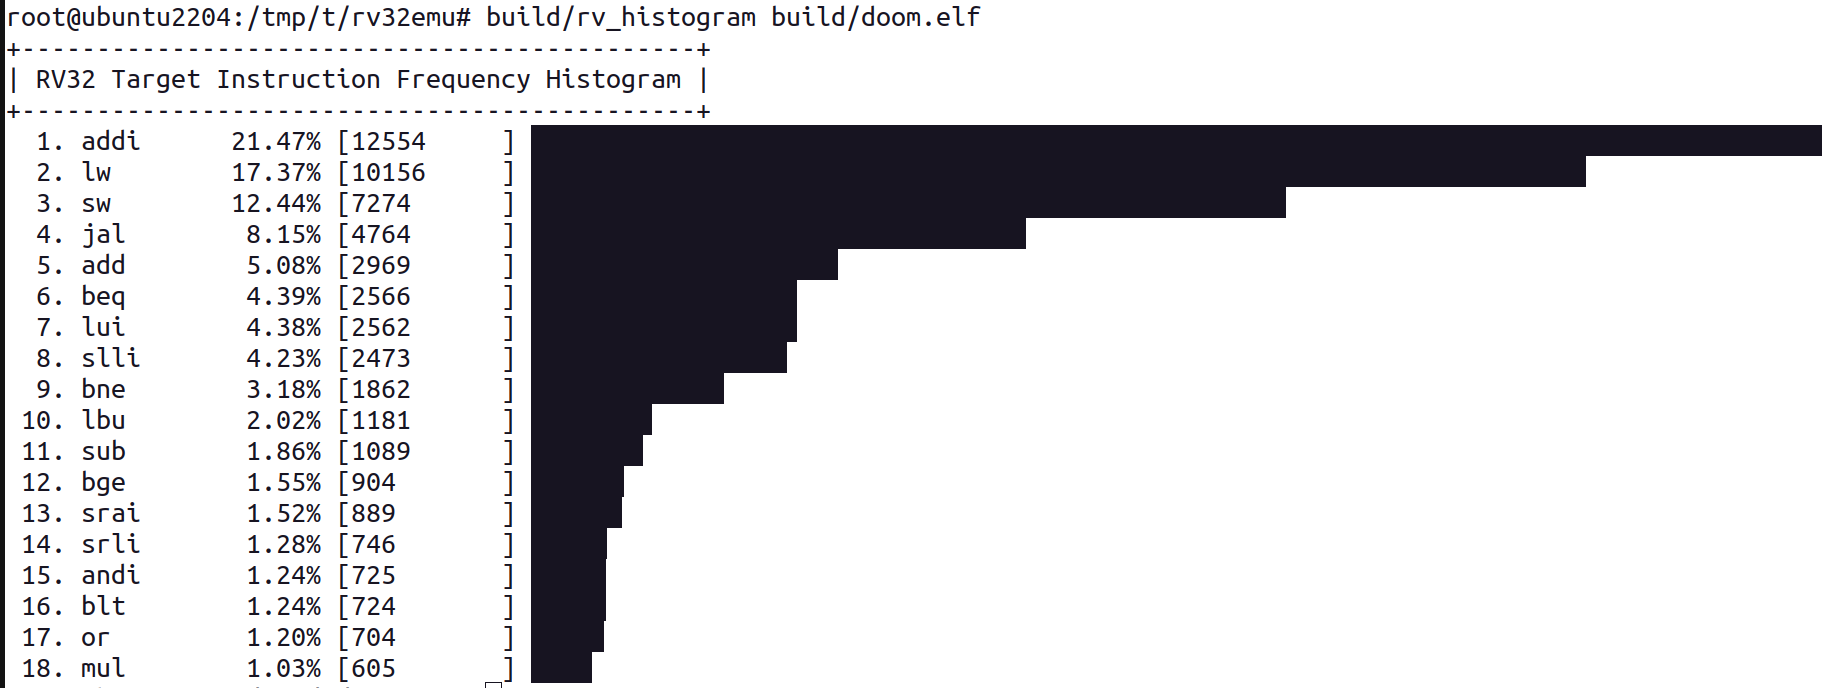
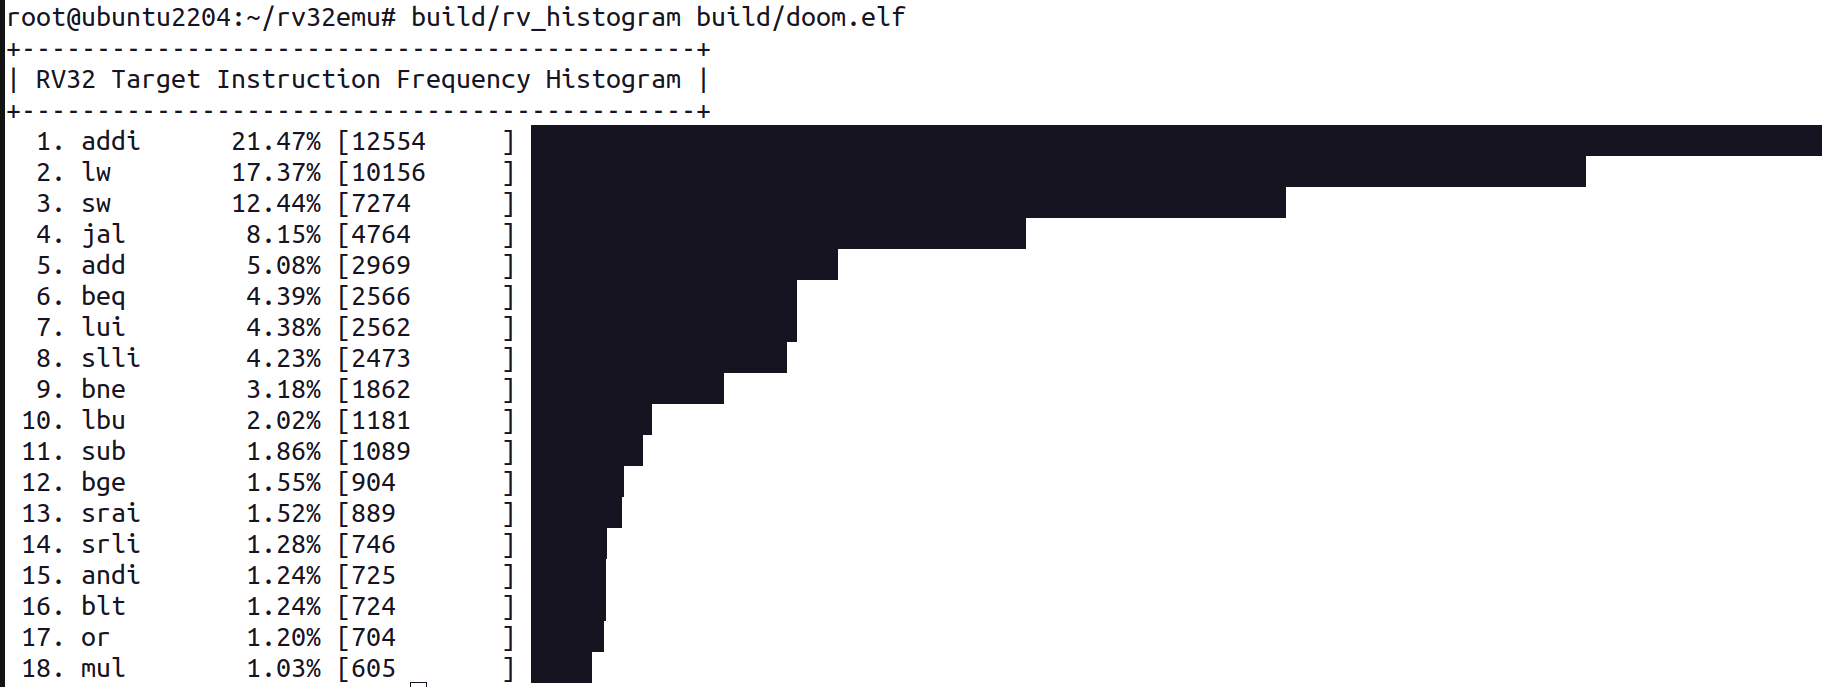
Fix total frequency calculation (#195)

diff --git a/tools/rv_histogram.c b/tools/rv_histogram.c
@@ -193,14 +193,22 @@ void reg_hist_incr(rv_insn_t *ir)
 
     uint8_t reg_mask = rv_insn_stats[ir->opcode].reg_mask;
 
-    if (reg_mask & 0x1)
+    if (reg_mask & F_rs1) {
         rv_reg_stats[ir->rs1].freq++;
-    if (reg_mask & 0x2)
+        total_freq++;
+    }
+    if (reg_mask & F_rs2) {
         rv_reg_stats[ir->rs2].freq++;
-    if (reg_mask & 0x4)
+        total_freq++;
+    }
+    if (reg_mask & F_rs3) {
         rv_reg_stats[ir->rs3].freq++;
-    if (reg_mask & 0x8)
+        total_freq++;
+    }
+    if (reg_mask & F_rd) {
         rv_reg_stats[ir->rd].freq++;
+        total_freq++;
+    }
 }
 
 void insn_hist_incr(rv_insn_t *ir)
@@ -210,6 +218,7 @@ void insn_hist_incr(rv_insn_t *ir)
         return;
     }
     rv_insn_stats[ir->opcode].freq++;
+    total_freq++;
 }
 
 int main(int argc, char *args[])
@@ -273,9 +282,7 @@ int main(int argc, char *args[])
                 hist_record(NULL);
                 continue;
             }
-
             hist_record(&ir);
-            total_freq++;
         }
     }
 
